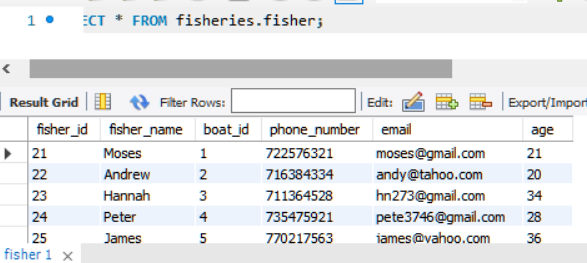
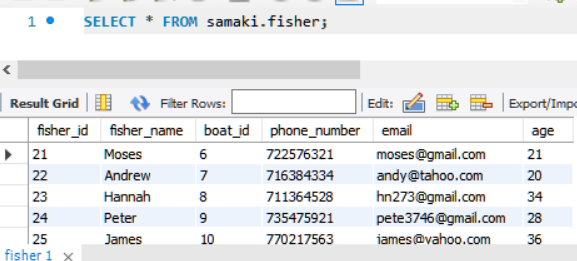
updated

diff --git a/fs_main.py b/fs_main.py
@@ -7,7 +7,7 @@ mydb = conn.connect(
     host="localhost",
     user="root",
     password="newlight",
-    database="Fisheries"
+    database="Samaki"
 )
 print("Hi")
 
@@ -15,7 +15,7 @@ print("Hi")
 cursor = mydb.cursor()
 
 # Create Database
-cursor.execute("CREATE DATABASE IF NOT EXISTS Fisheries")
+cursor.execute("CREATE DATABASE IF NOT EXISTS Samaki")
 print("Database created")
 
 # Create station table
@@ -25,42 +25,38 @@ station_name VARCHAR(100) NOT NULL,
 station_address VARCHAR(100))''')
 print("Station table created")
 
-# Create boat table
-cursor.execute('''CREATE TABLE IF NOT EXISTS boat (
-boat_id INT(5) AUTO_INCREMENT PRIMARY KEY NOT NULL UNIQUE,
-boat_name VARCHAR(100) NOT NULL,
-boat_size DECIMAL(3.2),
-boat_length DECIMAL(3.2),
-boat_capacity INT(2),
-station_id INT(3) NOT NULL, 
-fishing BOOLEAN,
-  CONSTRAINT FK_boat_station
-  FOREIGN KEY (station_id)
-        REFERENCES station(station_id)  )''')
-print("Boat table created")
-
 # Create Owner Table
 cursor.execute('''CREATE TABLE IF NOT EXISTS owner (
 owner_id INT(5) AUTO_INCREMENT PRIMARY KEY NOT NULL UNIQUE,
 owner_name VARCHAR(100) NOT NULL,
-boat_id INT(5) NOT NULL UNIQUE,
 phone_number INT(10) NOT NULL,
 email VARCHAR(100) NOT NULL,
-  CONSTRAINT FK_owner_boat
-  FOREIGN KEY (boat_id)
-        REFERENCES boat(boat_id)  )''')
+boat_id INT(5) NOT NULL )''')
 print("Owner table created")
+
+# Create boat table
+cursor.execute('''CREATE TABLE IF NOT EXISTS boat (
+boat_id INT(5) AUTO_INCREMENT PRIMARY KEY NOT NULL UNIQUE,
+boat_name VARCHAR(100) NOT NULL,
+boat_size DECIMAL(3,2),
+boat_length DECIMAL(3,2),
+boat_capacity INT(2),
+station_id INT(3) NOT NULL, 
+fishing BOOLEAN,
+owner_id INT(3) NOT NULL,
+  CONSTRAINT FK_boat_owner  FOREIGN KEY (owner_id)
+        REFERENCES owner(owner_id)  )''')
+print("Boat table created")
 
 # Create Fishers Table
 cursor.execute('''CREATE TABLE IF NOT EXISTS fisher (
 fisher_id INT(5) AUTO_INCREMENT PRIMARY KEY NOT NULL UNIQUE,
 fisher_name VARCHAR(100) NOT NULL,
-boat_id INT(5) NOT NULL UNIQUE,
+boat_id INT(5) NOT NULL,
 phone_number INT(10) NOT NULL,
 email VARCHAR(100) NOT NULL,
 age INT(3) NOT NULL,
-  CONSTRAINT FK_fisher_boat
-  FOREIGN KEY (boat_id)
+  CONSTRAINT FK_fisher_boat FOREIGN KEY (boat_id)
         REFERENCES boat(boat_id)  )''')
 print("Fisher table created")
 
@@ -75,6 +71,17 @@ with open('D:\FisheriesDB\stations.csv', 'r') as stationrec:
         mydb.commit()
 print("Station records added")
 
+#  Insert owner records from csv file
+#
+# Read from csv file
+ownrec = csv.reader(open(r"D:\FisheriesDB\owners.csv", 'r'))
+next(ownrec)  # Skip the first row
+for row in ownrec:
+    cursor.execute(
+        "INSERT IGNORE INTO owner(owner_id, owner_name, phone_number, email, boat_id) VALUES(%s, %s, %s, %s, %s)", row)
+    mydb.commit()
+print("Owner records added")
+
 #  Insert boat records from csv file
 #
 # Read from csv file
@@ -86,20 +93,9 @@ for row in boatrec:
 
     # cursor.execute("set foreign_key_checks=0;") -- Ignores foreugn key constaint
     cursor.execute(
-        "INSERT IGNORE INTO boat(boat_id, boat_name, boat_size, boat_length, boat_capacity, station_id, fishing) VALUES(%s, %s, %s, %s, %s, %s, %s)", row)
+        "INSERT IGNORE INTO boat(boat_id, boat_name, boat_size, boat_length, boat_capacity, station_id, fishing, owner_id) VALUES(%s, %s, %s, %s, %s, %s, %s, %s)", row)
     mydb.commit()
 print("Boat records added")
-
-#  Insert owner records from csv file
-#
-# Read from csv file
-ownrec = csv.reader(open(r"D:\FisheriesDB\owners.csv", 'r'))
-next(ownrec)  # Skip the first row
-for row in ownrec:
-    cursor.execute(
-        "INSERT IGNORE INTO owner(owner_id, owner_name, boat_id, phone_number, email) VALUES(%s, %s, %s, %s, %s)", row)
-    mydb.commit()
-print("Owner records added")
 
 #  Insert fisher records from csv file
 #
@@ -112,8 +108,9 @@ for row in fishrec:
     mydb.commit()
 print("Fisher records added")
 
-
 # function to join station and boat ewcords
+
+
 def boat_station_join():
     cursor.execute(
         "SELECT * FROM boat INNER JOIN station \
@@ -125,6 +122,8 @@ def boat_station_join():
         print(j)
 
 # function to join boat owners and fishe records
+
+
 def boat_owners_fishers_join():
     cursor.execute(
         "SELECT * FROM fisher INNER JOIN boat \
@@ -136,7 +135,7 @@ def boat_owners_fishers_join():
     for j in cursor.fetchall():
         print(j)
 
-        
+
 boat_station_join()
 boat_owners_fishers_join()
 

diff --git a/start.py b/start.py
@@ -1,0 +1,19 @@
+import mysql.connector as conn
+import csv
+
+
+# Connect to mysql-server
+mydb = conn.connect(
+    host="localhost",
+    user="root",
+    password="newlight",
+    database=""
+)
+print("Hi")
+
+# Create cusor object
+cursor = mydb.cursor()
+
+# Create Database
+cursor.execute("CREATE DATABASE IF NOT EXISTS Samaki")
+print("Database created")
